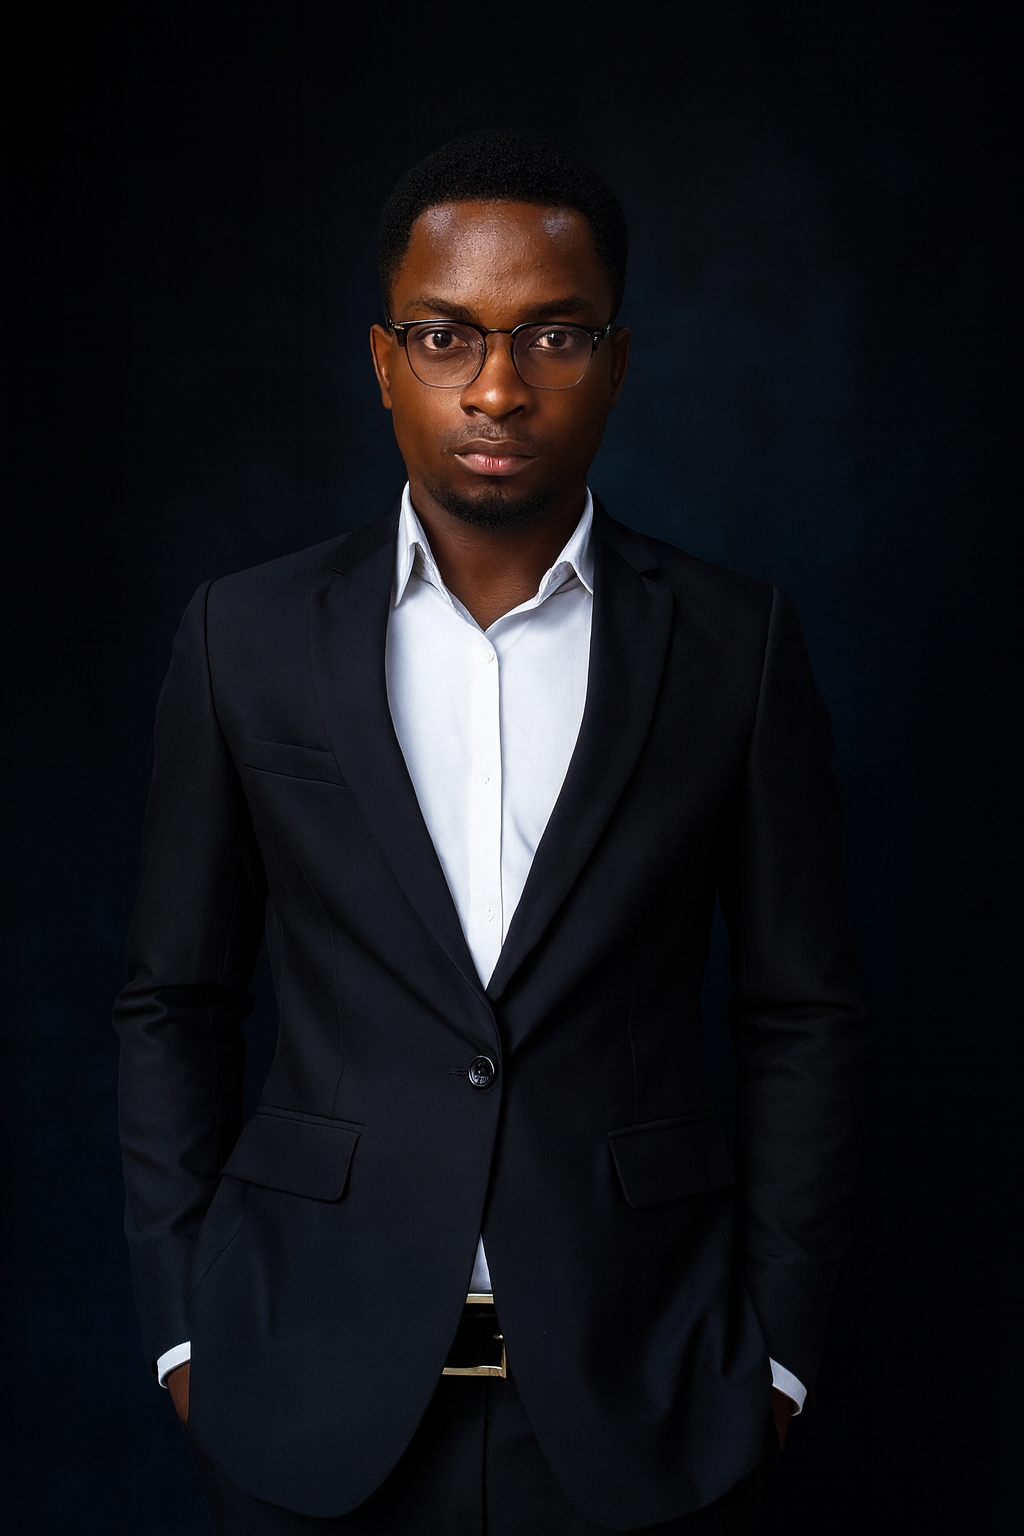
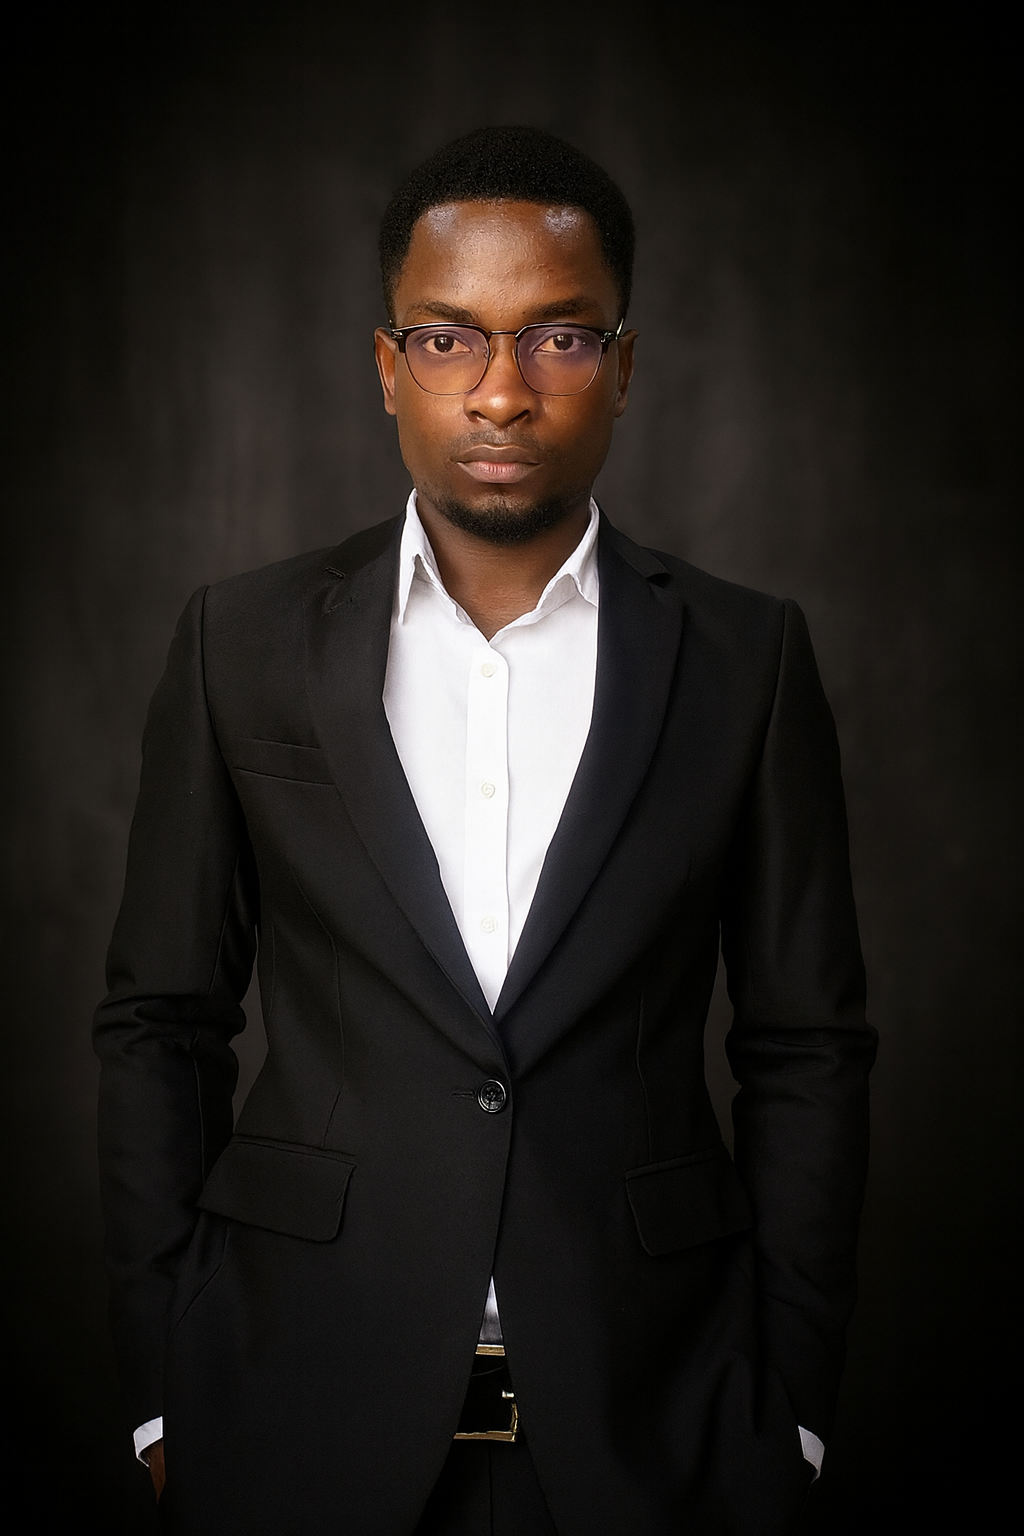
lynx dy

diff --git a/src/hooks/useTheme.ts b/src/hooks/useTheme.ts
@@ -1,23 +1,37 @@
-import { useState, useEffect, useCallback } from 'react';
+import { useState, useEffect, useCallback } from "react";
 
 export function useTheme() {
   const [isDark, setIsDark] = useState(() => {
-    const savedTheme = localStorage.getItem('theme');
+    const savedTheme = localStorage.getItem("theme");
     if (savedTheme) {
-      return savedTheme === 'dark';
+      return savedTheme === "dark";
     }
-    return window.matchMedia('(prefers-color-scheme: dark)').matches;
+    return (
+      document.documentElement.classList.contains("dark") ||
+      window.matchMedia("(prefers-color-scheme: dark)").matches
+    );
   });
 
   const updateTheme = useCallback((dark: boolean) => {
     // Simply add or remove the dark class
-    document.documentElement.classList[dark ? 'add' : 'remove']('dark');
+    document.documentElement.classList[dark ? "add" : "remove"]("dark");
   }, []);
 
   useEffect(() => {
     // Apply theme immediately
     updateTheme(isDark);
-    localStorage.setItem('theme', isDark ? 'dark' : 'light');
+    localStorage.setItem("theme", isDark ? "dark" : "light");
+
+    // Listen for changes to the html.dark class
+    const observer = new MutationObserver(() => {
+      const htmlIsDark = document.documentElement.classList.contains("dark");
+      setIsDark(htmlIsDark);
+    });
+    observer.observe(document.documentElement, {
+      attributes: true,
+      attributeFilter: ["class"],
+    });
+    return () => observer.disconnect();
   }, [isDark, updateTheme]);
 
   return { isDark, setIsDark };

diff --git a/src/components/Hero.tsx b/src/components/Hero.tsx
@@ -6,9 +6,11 @@ import { SocialLinks } from "./hero/SocialLinks";
 import { ContactInfo } from "./hero/ContactInfo";
 import { ActionButtons } from "./hero/ActionButtons";
 import { motion } from "framer-motion";
+import { useTheme } from "../hooks/useTheme";
 // import { Meteors } from "./meteors";
 
 export function Hero() {
+  const { isDark } = useTheme();
   const roles = [
     "Web Developer",
     "Computer Analyst",
@@ -71,9 +73,11 @@ export function Hero() {
               {/* Image */}
               <div className="pc-card relative group animate-floating animation delay-400">
                 <img
-                  src="/assets/profile_pic.jpg"
+                  src={
+                    isDark ? "/assets/prof-pic-drk.png" : "/assets/prof-pic.png"
+                  }
                   alt="Victor Umaru"
-                  className="relative z-20 w-full h-[100%] bg-black/ rounded-full shadow-xl/30 transform lg:hover:scale-110 hover:scale-105 transition-transform duration-500"
+                  className="relative z-20 w-full h-[80%] bg-black/ rounded-full shadow-xl/30 transform lg:hover:scale-110 hover:scale-105 transition-transform duration-500"
                 />
                 {/* Dark tint overlay only in dark mode, scales with image on hover */}
                 <div className="absolute inset-0 rounded-full bg-black/20 dark:block hidden z-30 pointer-events-none transform transition-transform duration-500 group-hover:scale-105 lg:group-hover:scale-110"></div>
